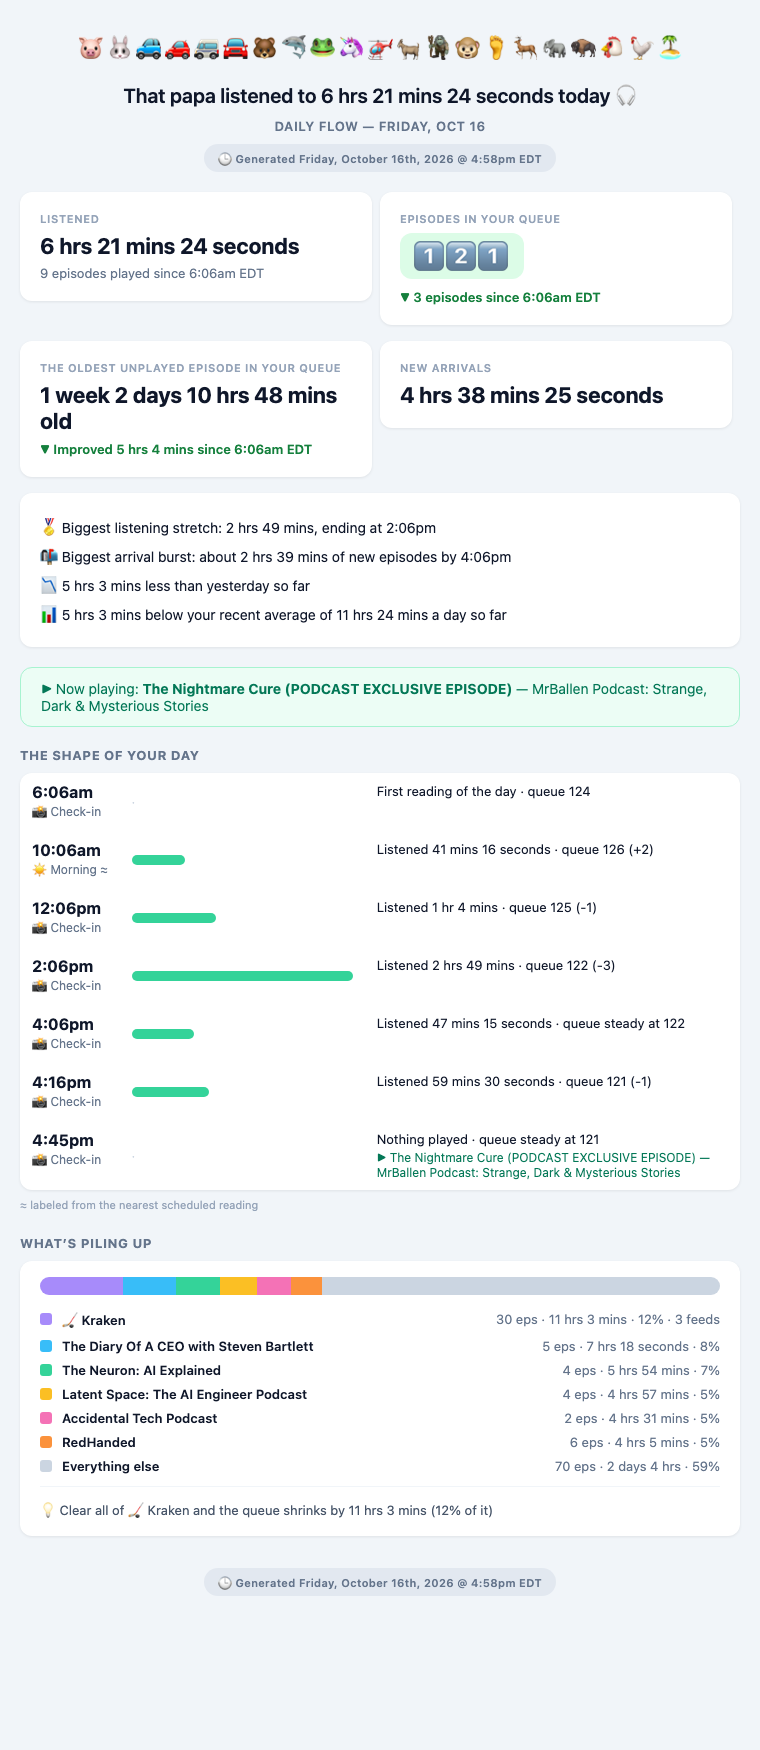
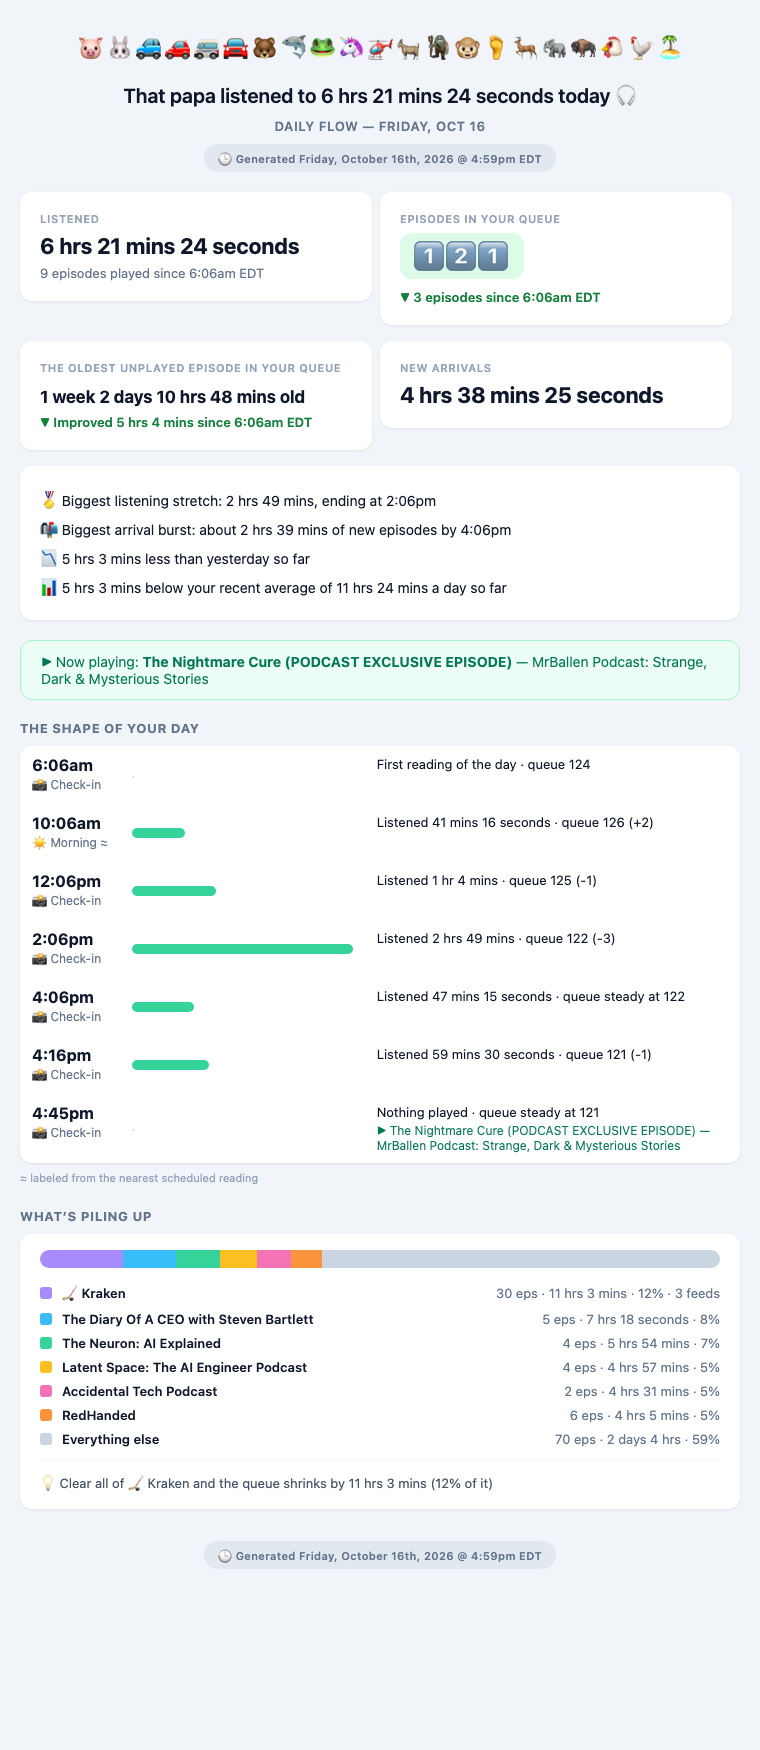
Flow web report: card values stay on one line

diff --git a/flow.py b/flow.py
@@ -553,6 +553,14 @@ def render_week_chat(w, tz=None):
     return "\n".join(lines)
 
 
+def fit_value(text):
+    """A card's big number on one line: shrink the type for long values
+    rather than letting them wrap."""
+    n = len(text)
+    size = 22 if n <= 25 else 19 if n <= 31 else 17 if n <= 36 else 15
+    return (f'<span style="font-size:{size}px;white-space:nowrap;">{html.escape(text)}</span>')
+
+
 def _card(label, value, sub="", hint="", value_html=None, sub_html=None):
     hint_html = (f'<div style="font-size:11px;color:#94a3b8;margin-top:8px;">{html.escape(hint)}</div>'
                  if hint else "")
@@ -561,7 +569,7 @@ def _card(label, value, sub="", hint="", value_html=None, sub_html=None):
     else:
         sub_html = (f'<div style="font-size:13px;color:#64748b;margin-top:6px;">{html.escape(sub)}</div>'
                     if sub else "")
-    value_part = value_html if value_html is not None else html.escape(value)
+    value_part = value_html if value_html is not None else fit_value(value)
     return (
         '<td width="50%" valign="top" style="padding:0 8px 16px 0;">'
         '<div style="background:#ffffff;border-radius:12px;padding:20px;'
@@ -783,7 +791,7 @@ def render_day_html(s, tz=None, generated=None, d=None):
         _card("Listened", dur(s["listened_seconds"]),
               f"{s['listened_count']} episode{'' if s['listened_count'] == 1 else 's'} played {since_label(qs, tz)}"),
         queue_card(qs, qe, tz),
-        _card("The oldest unplayed episode in your queue", f"{dur(qe['behind_seconds'])} old",
+        _card("The oldest unplayed episode in your queue", f"{dur_n(qe['behind_seconds'], 4)} old",
               sub_html=age_line(s["behind_delta"], since_label(qs, tz))),
         _card("New arrivals", dur(s["arrivals_seconds"])),
     ]

diff --git a/tests/test_flow.py b/tests/test_flow.py
@@ -345,6 +345,13 @@ class StoryTests(unittest.TestCase):
         self.assertIn("#b91c1c", worse)
         self.assertIn("▲ Slipped 2 hrs", worse)
 
+    def test_long_card_values_shrink_instead_of_wrapping(self):
+        short = flow.fit_value("6 hrs 21 mins")
+        long = flow.fit_value("1 week 2 days 10 hrs 48 mins old")
+        self.assertIn("font-size:22px", short)
+        self.assertIn("white-space:nowrap", long)
+        self.assertNotIn("font-size:22px", long)
+
     def test_labels_have_names_and_approximate_ones_are_marked(self):
         self.assertEqual(flow.label_name({"label": "dash-end"}), "🏁 Dash end")
         self.assertEqual(flow.label_name({"label": "manual"}), "📸 Check-in")
